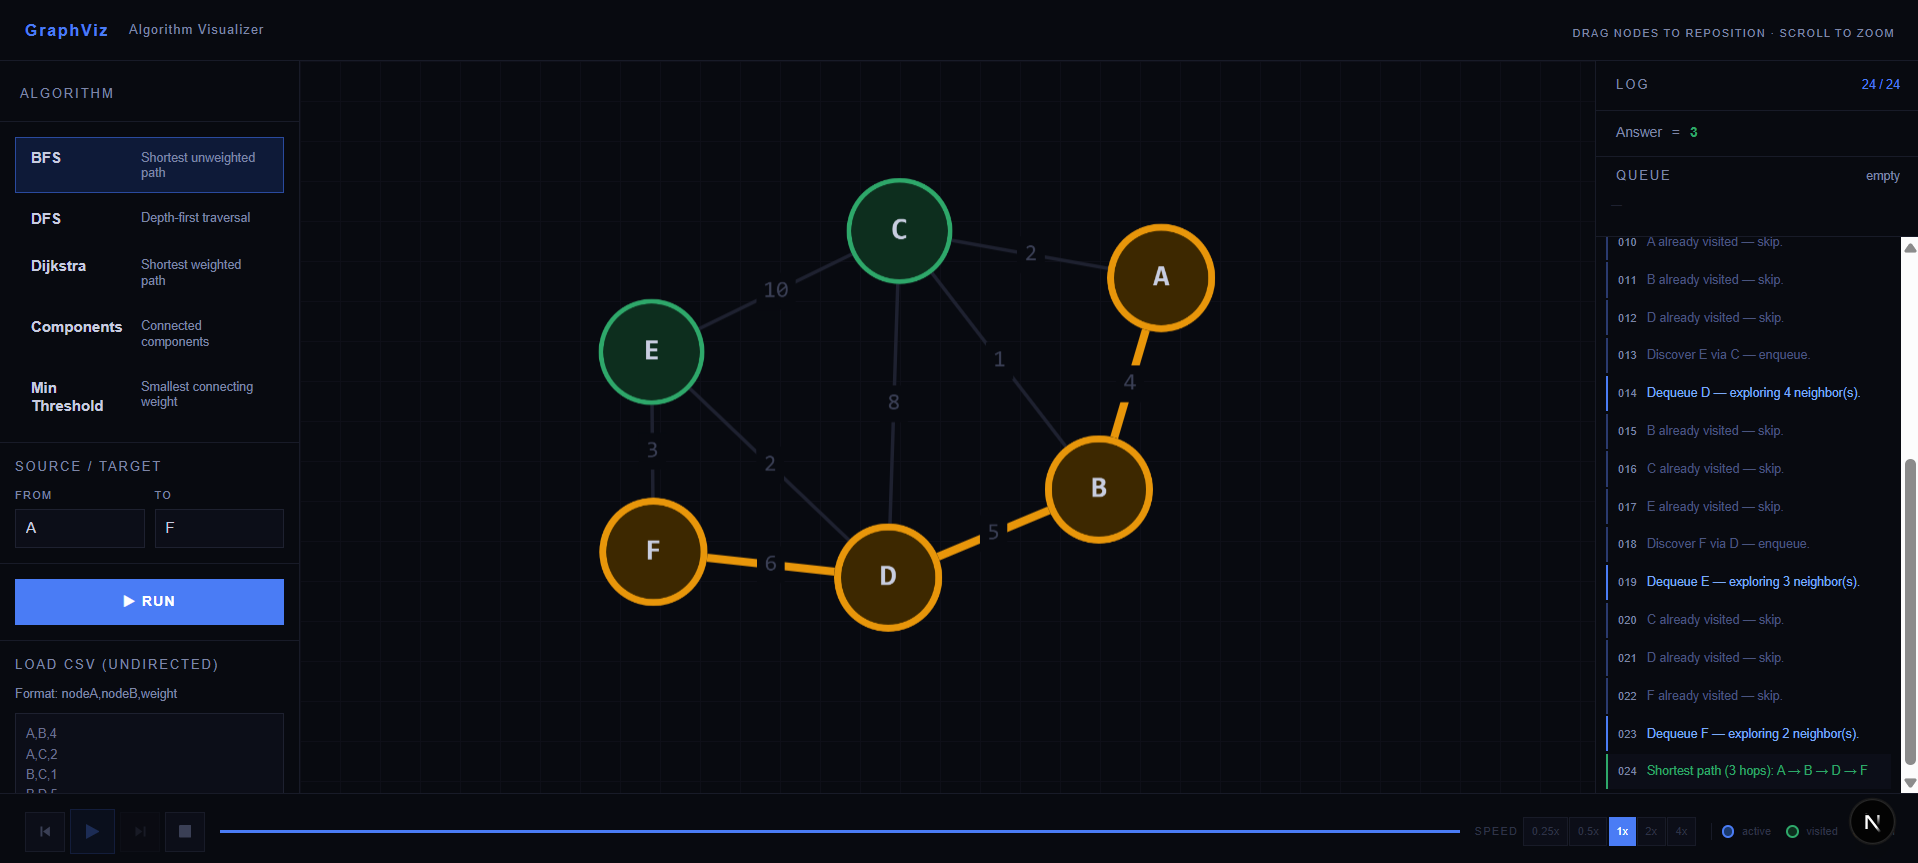
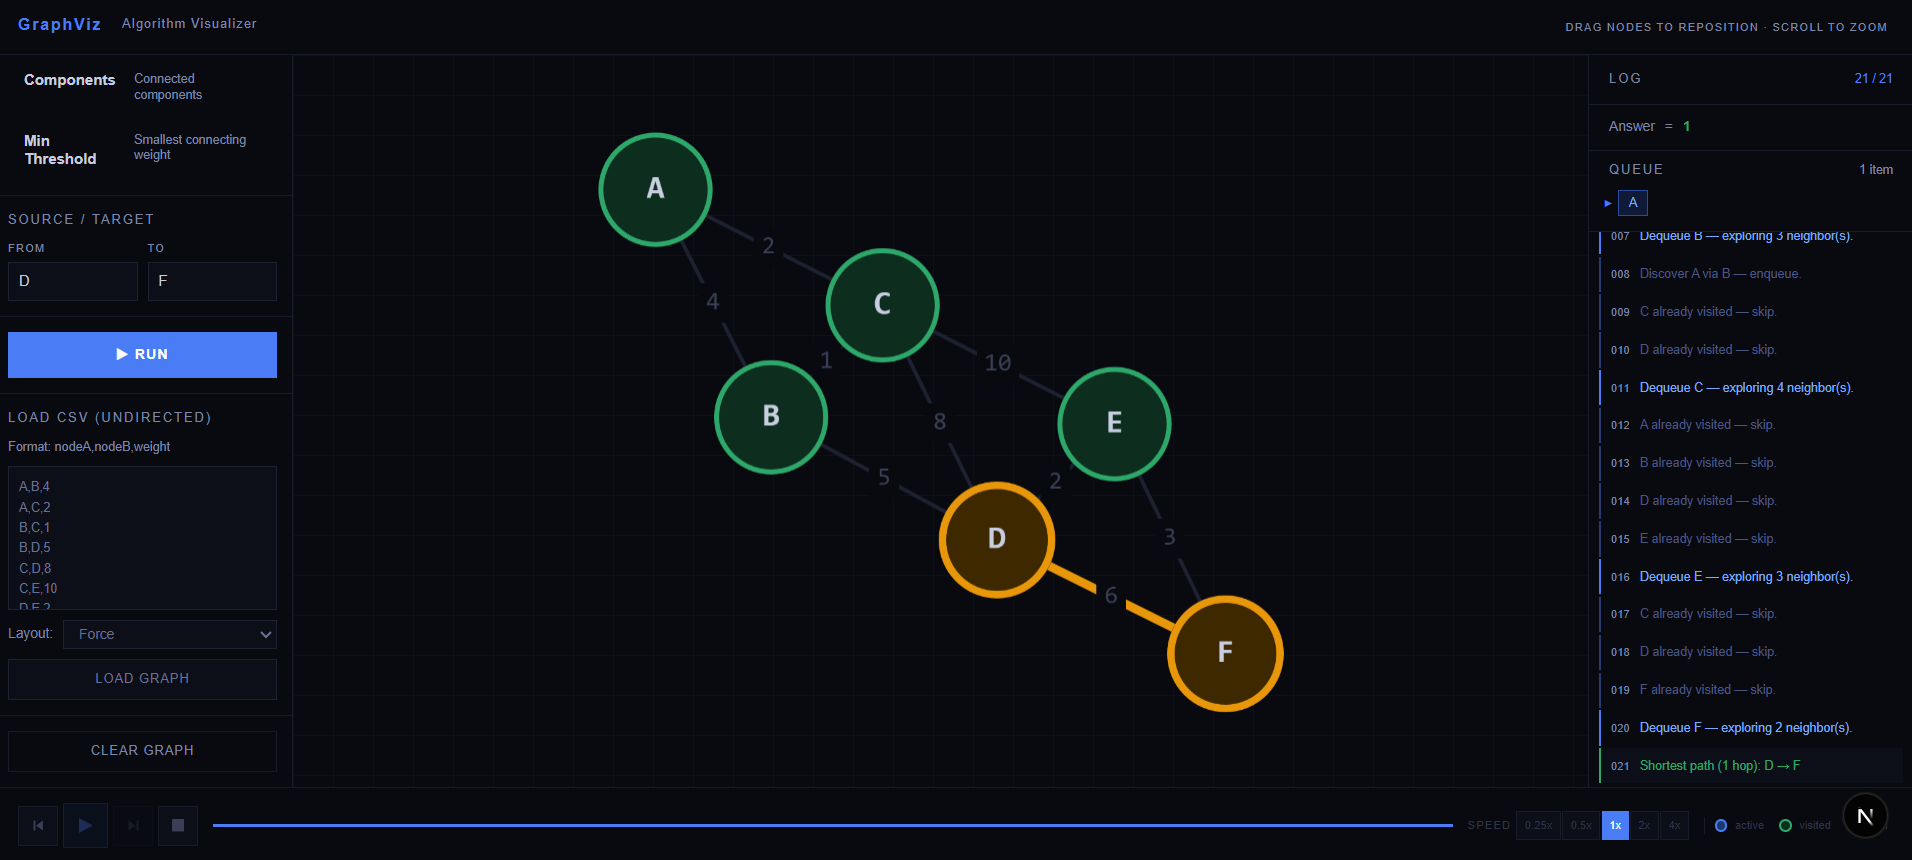
Updated images and hid scrollbars

diff --git a/web-graph/src/ui/algorithmPanel.tsx b/web-graph/src/ui/algorithmPanel.tsx
@@ -157,7 +157,7 @@ export function AlgorithmPanel({ onRun, onLoadCSV, onClear, disabled }: Algorith
       </div>
 
       {/* CSV import */}
-      <div className="px-3 py-3 border-b border-[#181b28] flex flex-col gap-2 hide-scrollbar">
+      <div className="px-3 py-3 border-b border-[#181b28] flex flex-col gap-2 ">
         <span className="font-mono text-[10px] tracking-[0.18em] uppercase text-[#7e86a7]">Load CSV (undirected)</span>
         <span className="font-mono text-[10px] text-[#7e86a7]">Format: nodeA,nodeB,weight</span>
         <textarea

diff --git a/web-graph/src/ui/logPanel.tsx b/web-graph/src/ui/logPanel.tsx
@@ -122,7 +122,7 @@ export function LogPanel({ entries, currentIndex, frameCount, result, algoId, la
       )}
 
       {/* Step log */}
-      <div className="flex-1 overflow-y-auto px-2 py-2 flex flex-col gap-[2px]">
+      <div className="flex-1 overflow-y-auto px-2 py-2 flex flex-col gap-[2px] hide-scrollbar">
         {entries.length === 0 && (
           <div className="font-mono text-[12px] text-[#7e86a7] px-2 py-4 text-center">
             Run an algorithm to see the step log.

diff --git a/README.md b/README.md
@@ -23,7 +23,7 @@ This project ports a C++ graph algorithms implementation into an animated web ap
 Finds the shortest unweighted path between two nodes using a FIFO queue. The queue panel shows the current queue contents, with the front highlighted.
 
 ### DFS — Depth-First Search
-Traverses the graph depth-first using a LIFO stack. The stack panel shows items with the top of stack on the right, highlighted in blue, with `← top` markers.
+Traverses the graph depth-first using a LIFO stack. The stack panel shows items with the top of stack on the right, highlighted in blue.
 
 ### Dijkstra's Algorithm
 Finds the shortest weighted path using a binary min-heap priority queue. Each entry in the priority queue panel is shown as `node(cost)`, sorted by cost. The metadata panel shows the live distance table updating as nodes are relaxed.
@@ -33,6 +33,13 @@ Finds all connected subgraphs using iterative DFS. Reports the number of compone
 
 ### Smallest Threshold (Union-Find)
 Finds the smallest edge weight `T` such that all edges with weight ≤ `T` connect a start node to an end node. Uses a Union-Find (Disjoint Set) data structure with union-by-size and path compression.
+
+## Project Preview
+When an algorithm is running, the graph visualization looks like:
+![running-algo](./images/running-algo.png)
+
+After completing an algorithm, the graph visualization looks like:
+![running-algo](./images/completed-algo.png)
 
 ## Project Structure
 
